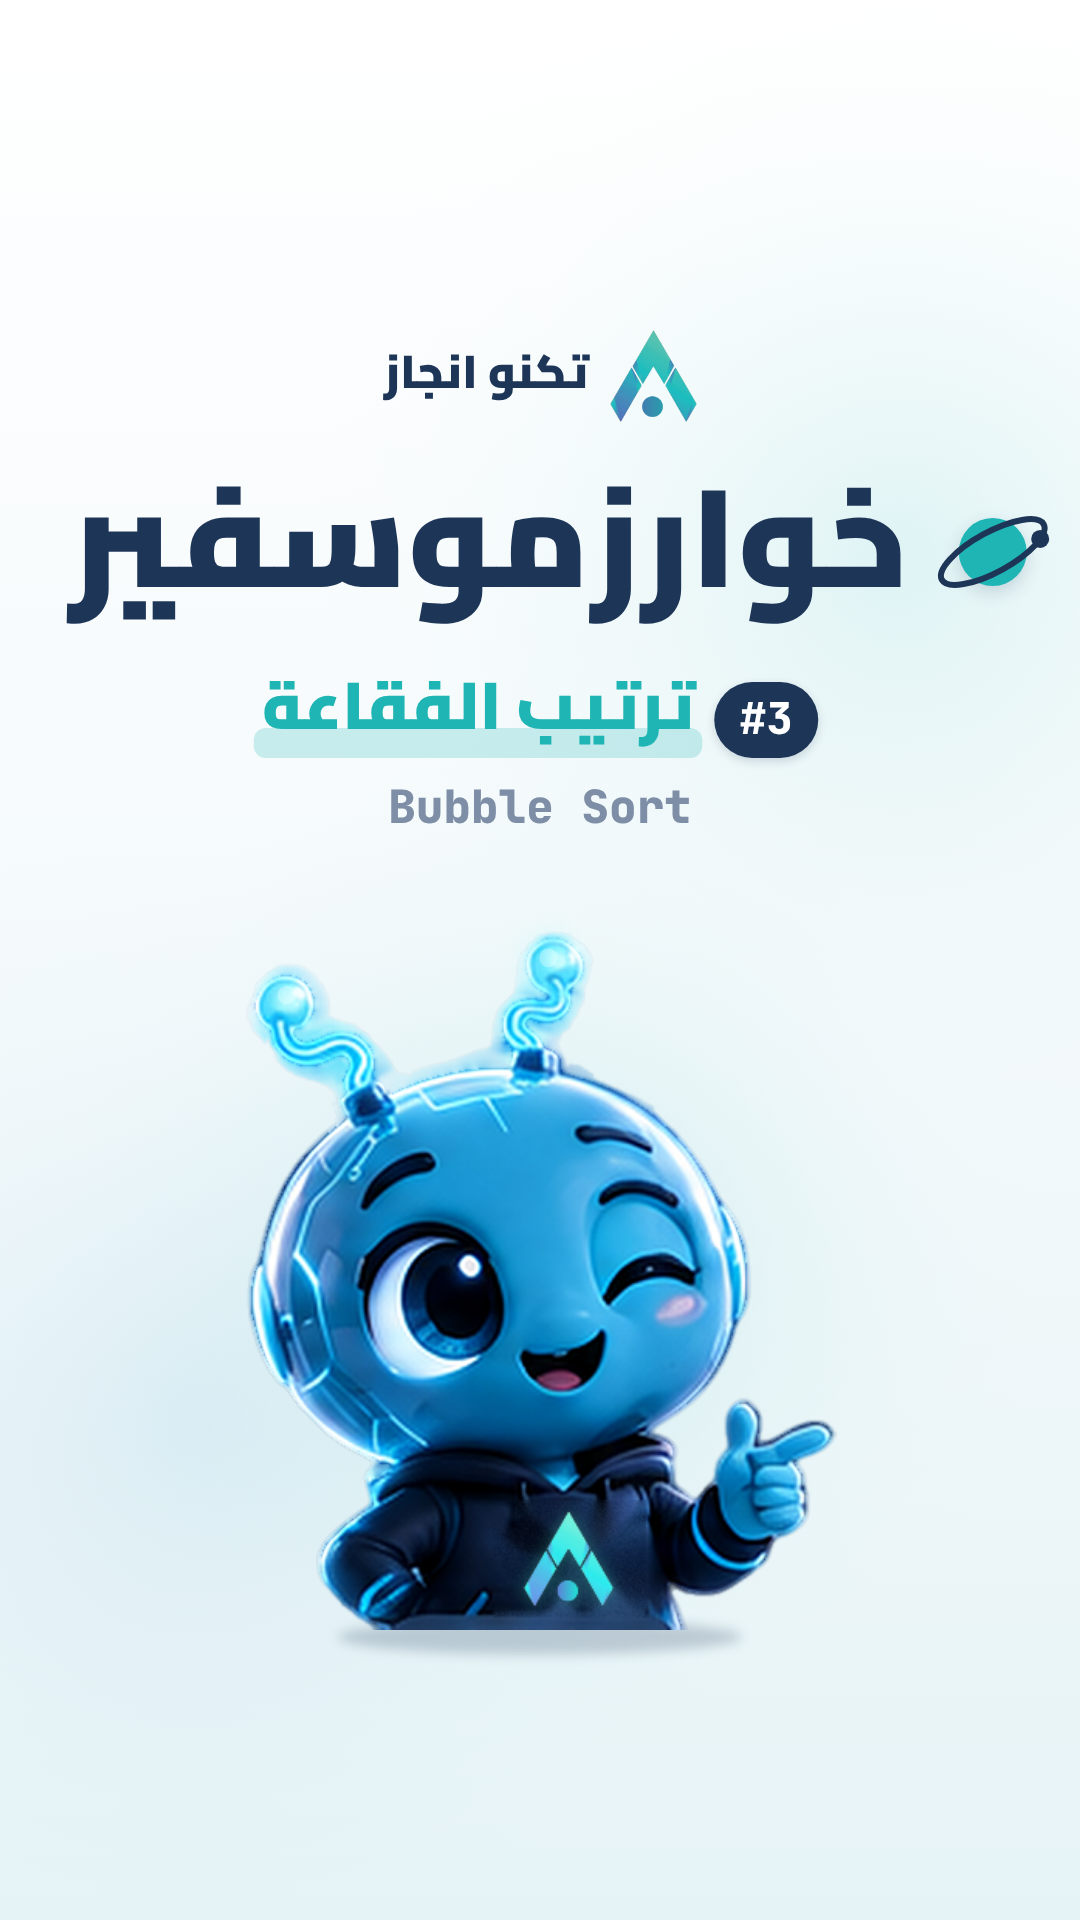
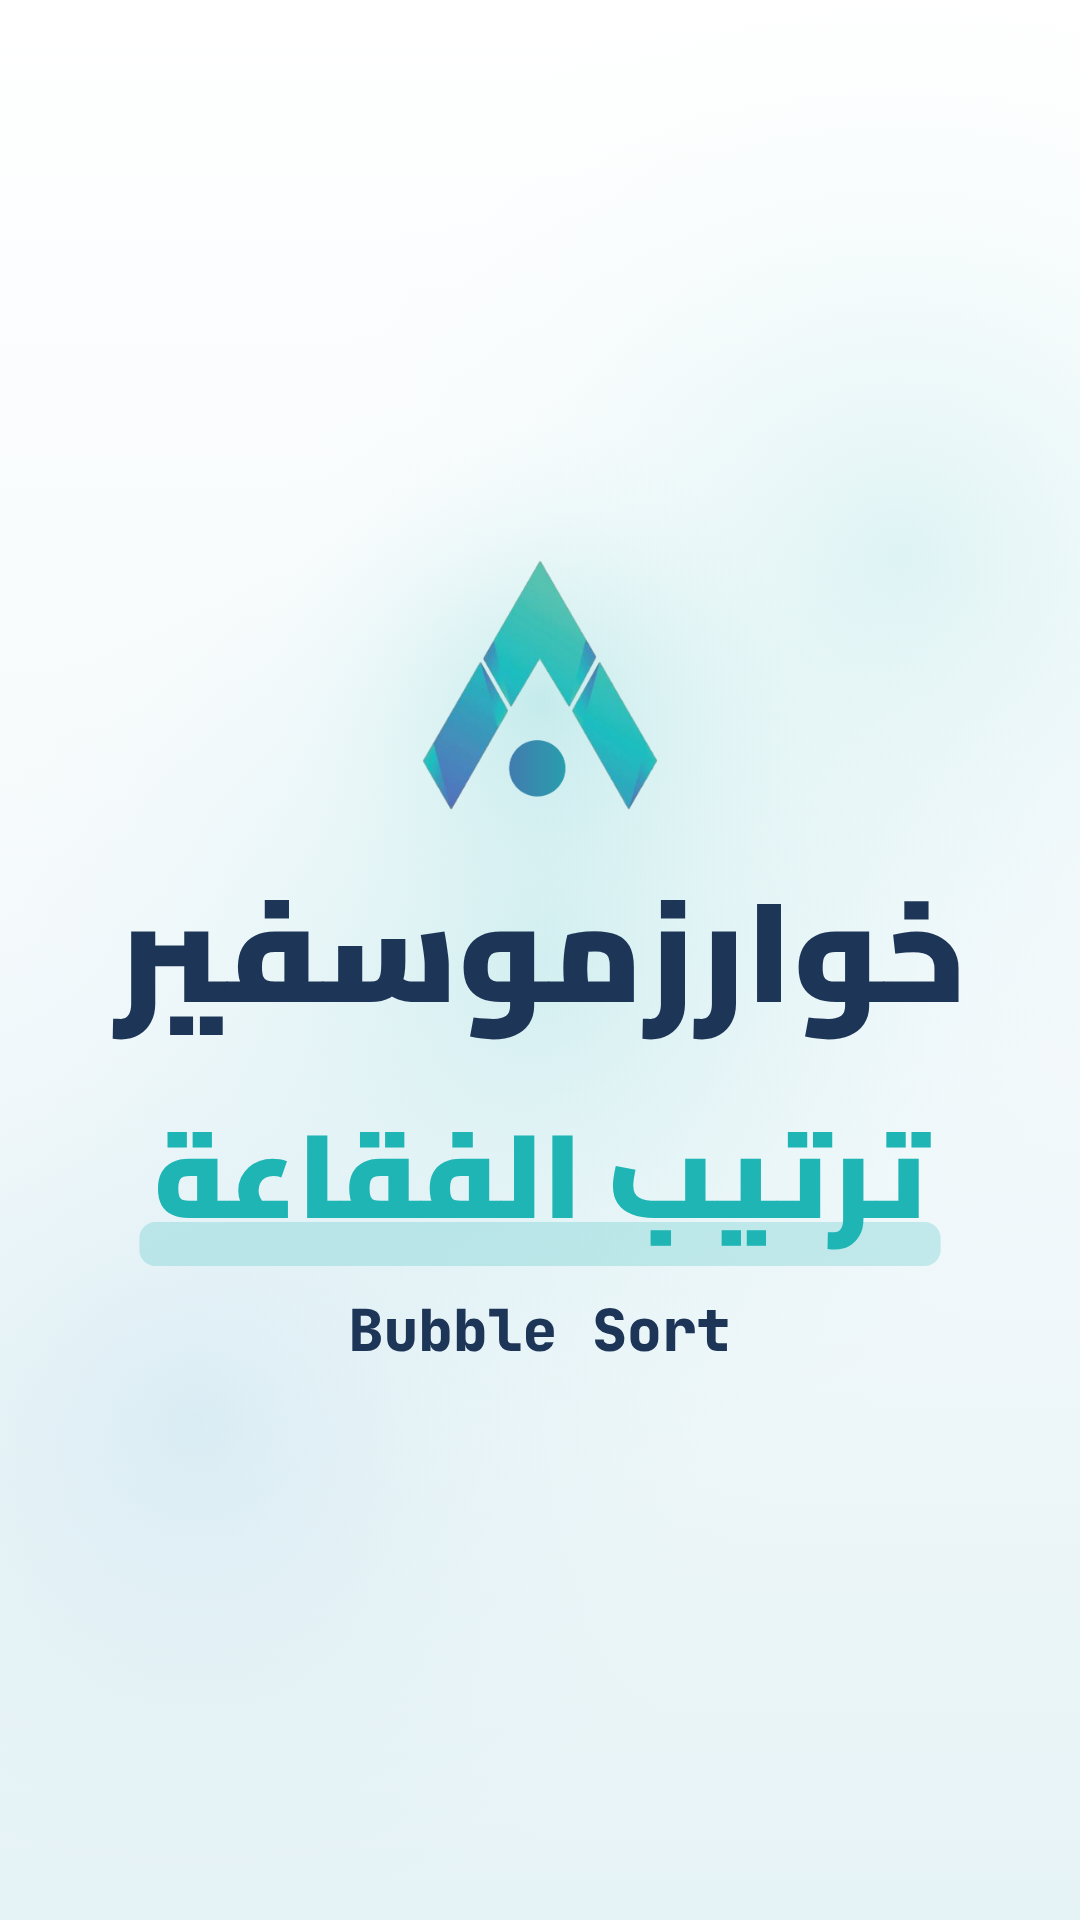
Covers: only the Techno Enjaz mark, the series name and the algorithm name
Claude-Session: https://claude.ai/code/session_01LrFppYxt5WHwVqvm5wNFjR

Changed region(s): [[0.0611, 0.25, 0.9778, 0.875], [0.3361, 0.1562, 0.6417, 0.2188]]

diff --git a/binary-search-reel/js/cover.js b/binary-search-reel/js/cover.js
@@ -5,22 +5,12 @@ SCENES.order = [];
 const COVER = window.COVER || { ep: 1, title: "البحث الخطي", en: "Linear Search", pose: "angry", poseH: 760 };
 let LOGO = null;
 window.drawCover = async () => {
+  // three things only: the Techno Enjaz mark, the series name, the algorithm's name — centred in the 4:5 grid crop
   if (!LOGO) LOGO = await new Promise((res) => { const im = new Image(); im.onload = () => res(im); im.src = "assets/te-logo.png"; });
-  const t = 1.6; NOW = t; ctx.setTransform(1, 0, 0, 1, 0, 0); background(t, { focus: [540, 1260, 540, 1] });
-  // 1 · Techno Enjaz: the mark + the name, top centre
-  const lh = 92, lw = lh * LOGO.width / LOGO.height; ctx.save(); ctx.font = font(46, 900); const nw = ctx.measureText("تكنو انجاز").width; ctx.restore();
-  const gw = lw + 22 + nw, gx = 540 - gw / 2; A(1); ctx.drawImage(LOGO, gx + nw + 22, 330, lw, lh); T("تكنو انجاز", gx + nw / 2, 330 + lh / 2 + 3, { size: 46, color: C.navy });
-  // 2 · the series name, big, with its orbit mark
-  ctx.save(); ctx.font = font(138, 900); const sw = ctx.measureText(SERIES).width; ctx.restore();
-  const sx0 = 540 - 52; // the globe sits on the right of the word (RTL start)
-  T(SERIES, sx0, 560, { size: 138, color: C.navy });
-  const gxx = sx0 + sw / 2 + 84, gy = 552; circle(gxx, gy, 34, C.teal, 1, 18); A(1); ctx.save(); ctx.translate(gxx, gy); ctx.rotate(-0.5); ctx.beginPath(); ctx.ellipse(0, 0, 58, 20, 0, 0, 6.2832); ctx.strokeStyle = C.navy; ctx.lineWidth = 6; ctx.stroke(); ctx.restore();
-  circle(gxx + Math.cos(0.6) * 58 * Math.cos(-0.5) - Math.sin(0.6) * 20 * Math.sin(-0.5), gy + Math.cos(0.6) * 58 * Math.sin(-0.5) + Math.sin(0.6) * 20 * Math.cos(-0.5), 9, C.navy, 1);
-  // 3 · this episode: number chip + topic (so each cover is still findable in the grid)
-  ctx.save(); ctx.font = font(66, 900); const tw = ctx.measureText(COVER.title).width; ctx.restore();
-  const cw = 104 + 20 + tw, cx0 = 540 - cw / 2; fillRR(cx0 + tw + 20, 682, 104, 76, 38, C.navy, 1, 10); T("#" + COVER.ep, cx0 + tw + 20 + 52, 722, { size: 44, fam: "mono", color: "#ffffff" });
-  fillRR(cx0 - 8, 728, tw + 16, 30, 12, hexA(C.teal, 0.22)); T(COVER.title, cx0 + tw / 2, 716, { size: 66, color: C.teal });
-  T(COVER.en, 540, 810, { size: 46, color: C.mut, fam: "mono" });
-  // 4 · خوارزمو
-  KR(COVER.pose, 540, 1630, COVER.poseH, { bob: 0 });
+  const t = 1.6; NOW = t; ctx.setTransform(1, 0, 0, 1, 0, 0); background(t, { focus: [540, 960, 600, 1] });
+  const lh = 250, lw = lh * LOGO.width / LOGO.height; halo(540, 700, 300, "rgba(31,181,181,0.18)", 1); A(1); ctx.drawImage(LOGO, 540 - lw / 2, 560, lw, lh);
+  T(SERIES, 540, 975, { size: 140, color: C.navy });
+  ctx.save(); ctx.font = font(118, 900); const tw = ctx.measureText(COVER.title).width; ctx.restore();
+  fillRR(540 - tw / 2 - 14, 1222, tw + 28, 44, 16, hexA(C.teal, 0.22)); T(COVER.title, 540, 1195, { size: 118, color: C.teal });
+  T(COVER.en, 540, 1335, { size: 58, color: C.navy, fam: "mono" });
 };

diff --git a/bubble-sort-reel/js/cover.js b/bubble-sort-reel/js/cover.js
@@ -5,22 +5,12 @@ SCENES.order = [];
 const COVER = window.COVER || { ep: 1, title: "البحث الخطي", en: "Linear Search", pose: "angry", poseH: 760 };
 let LOGO = null;
 window.drawCover = async () => {
+  // three things only: the Techno Enjaz mark, the series name, the algorithm's name — centred in the 4:5 grid crop
   if (!LOGO) LOGO = await new Promise((res) => { const im = new Image(); im.onload = () => res(im); im.src = "assets/te-logo.png"; });
-  const t = 1.6; NOW = t; ctx.setTransform(1, 0, 0, 1, 0, 0); background(t, { focus: [540, 1260, 540, 1] });
-  // 1 · Techno Enjaz: the mark + the name, top centre
-  const lh = 92, lw = lh * LOGO.width / LOGO.height; ctx.save(); ctx.font = font(46, 900); const nw = ctx.measureText("تكنو انجاز").width; ctx.restore();
-  const gw = lw + 22 + nw, gx = 540 - gw / 2; A(1); ctx.drawImage(LOGO, gx + nw + 22, 330, lw, lh); T("تكنو انجاز", gx + nw / 2, 330 + lh / 2 + 3, { size: 46, color: C.navy });
-  // 2 · the series name, big, with its orbit mark
-  ctx.save(); ctx.font = font(138, 900); const sw = ctx.measureText(SERIES).width; ctx.restore();
-  const sx0 = 540 - 52; // the globe sits on the right of the word (RTL start)
-  T(SERIES, sx0, 560, { size: 138, color: C.navy });
-  const gxx = sx0 + sw / 2 + 84, gy = 552; circle(gxx, gy, 34, C.teal, 1, 18); A(1); ctx.save(); ctx.translate(gxx, gy); ctx.rotate(-0.5); ctx.beginPath(); ctx.ellipse(0, 0, 58, 20, 0, 0, 6.2832); ctx.strokeStyle = C.navy; ctx.lineWidth = 6; ctx.stroke(); ctx.restore();
-  circle(gxx + Math.cos(0.6) * 58 * Math.cos(-0.5) - Math.sin(0.6) * 20 * Math.sin(-0.5), gy + Math.cos(0.6) * 58 * Math.sin(-0.5) + Math.sin(0.6) * 20 * Math.cos(-0.5), 9, C.navy, 1);
-  // 3 · this episode: number chip + topic (so each cover is still findable in the grid)
-  ctx.save(); ctx.font = font(66, 900); const tw = ctx.measureText(COVER.title).width; ctx.restore();
-  const cw = 104 + 20 + tw, cx0 = 540 - cw / 2; fillRR(cx0 + tw + 20, 682, 104, 76, 38, C.navy, 1, 10); T("#" + COVER.ep, cx0 + tw + 20 + 52, 722, { size: 44, fam: "mono", color: "#ffffff" });
-  fillRR(cx0 - 8, 728, tw + 16, 30, 12, hexA(C.teal, 0.22)); T(COVER.title, cx0 + tw / 2, 716, { size: 66, color: C.teal });
-  T(COVER.en, 540, 810, { size: 46, color: C.mut, fam: "mono" });
-  // 4 · خوارزمو
-  KR(COVER.pose, 540, 1630, COVER.poseH, { bob: 0 });
+  const t = 1.6; NOW = t; ctx.setTransform(1, 0, 0, 1, 0, 0); background(t, { focus: [540, 960, 600, 1] });
+  const lh = 250, lw = lh * LOGO.width / LOGO.height; halo(540, 700, 300, "rgba(31,181,181,0.18)", 1); A(1); ctx.drawImage(LOGO, 540 - lw / 2, 560, lw, lh);
+  T(SERIES, 540, 975, { size: 140, color: C.navy });
+  ctx.save(); ctx.font = font(118, 900); const tw = ctx.measureText(COVER.title).width; ctx.restore();
+  fillRR(540 - tw / 2 - 14, 1222, tw + 28, 44, 16, hexA(C.teal, 0.22)); T(COVER.title, 540, 1195, { size: 118, color: C.teal });
+  T(COVER.en, 540, 1335, { size: 58, color: C.navy, fam: "mono" });
 };

diff --git a/linear-search-reel/js/cover.js b/linear-search-reel/js/cover.js
@@ -5,22 +5,12 @@ SCENES.order = [];
 const COVER = window.COVER || { ep: 1, title: "البحث الخطي", en: "Linear Search", pose: "angry", poseH: 760 };
 let LOGO = null;
 window.drawCover = async () => {
+  // three things only: the Techno Enjaz mark, the series name, the algorithm's name — centred in the 4:5 grid crop
   if (!LOGO) LOGO = await new Promise((res) => { const im = new Image(); im.onload = () => res(im); im.src = "assets/te-logo.png"; });
-  const t = 1.6; NOW = t; ctx.setTransform(1, 0, 0, 1, 0, 0); background(t, { focus: [540, 1260, 540, 1] });
-  // 1 · Techno Enjaz: the mark + the name, top centre
-  const lh = 92, lw = lh * LOGO.width / LOGO.height; ctx.save(); ctx.font = font(46, 900); const nw = ctx.measureText("تكنو انجاز").width; ctx.restore();
-  const gw = lw + 22 + nw, gx = 540 - gw / 2; A(1); ctx.drawImage(LOGO, gx + nw + 22, 330, lw, lh); T("تكنو انجاز", gx + nw / 2, 330 + lh / 2 + 3, { size: 46, color: C.navy });
-  // 2 · the series name, big, with its orbit mark
-  ctx.save(); ctx.font = font(138, 900); const sw = ctx.measureText(SERIES).width; ctx.restore();
-  const sx0 = 540 - 52; // the globe sits on the right of the word (RTL start)
-  T(SERIES, sx0, 560, { size: 138, color: C.navy });
-  const gxx = sx0 + sw / 2 + 84, gy = 552; circle(gxx, gy, 34, C.teal, 1, 18); A(1); ctx.save(); ctx.translate(gxx, gy); ctx.rotate(-0.5); ctx.beginPath(); ctx.ellipse(0, 0, 58, 20, 0, 0, 6.2832); ctx.strokeStyle = C.navy; ctx.lineWidth = 6; ctx.stroke(); ctx.restore();
-  circle(gxx + Math.cos(0.6) * 58 * Math.cos(-0.5) - Math.sin(0.6) * 20 * Math.sin(-0.5), gy + Math.cos(0.6) * 58 * Math.sin(-0.5) + Math.sin(0.6) * 20 * Math.cos(-0.5), 9, C.navy, 1);
-  // 3 · this episode: number chip + topic (so each cover is still findable in the grid)
-  ctx.save(); ctx.font = font(66, 900); const tw = ctx.measureText(COVER.title).width; ctx.restore();
-  const cw = 104 + 20 + tw, cx0 = 540 - cw / 2; fillRR(cx0 + tw + 20, 682, 104, 76, 38, C.navy, 1, 10); T("#" + COVER.ep, cx0 + tw + 20 + 52, 722, { size: 44, fam: "mono", color: "#ffffff" });
-  fillRR(cx0 - 8, 728, tw + 16, 30, 12, hexA(C.teal, 0.22)); T(COVER.title, cx0 + tw / 2, 716, { size: 66, color: C.teal });
-  T(COVER.en, 540, 810, { size: 46, color: C.mut, fam: "mono" });
-  // 4 · خوارزمو
-  KR(COVER.pose, 540, 1630, COVER.poseH, { bob: 0 });
+  const t = 1.6; NOW = t; ctx.setTransform(1, 0, 0, 1, 0, 0); background(t, { focus: [540, 960, 600, 1] });
+  const lh = 250, lw = lh * LOGO.width / LOGO.height; halo(540, 700, 300, "rgba(31,181,181,0.18)", 1); A(1); ctx.drawImage(LOGO, 540 - lw / 2, 560, lw, lh);
+  T(SERIES, 540, 975, { size: 140, color: C.navy });
+  ctx.save(); ctx.font = font(118, 900); const tw = ctx.measureText(COVER.title).width; ctx.restore();
+  fillRR(540 - tw / 2 - 14, 1222, tw + 28, 44, 16, hexA(C.teal, 0.22)); T(COVER.title, 540, 1195, { size: 118, color: C.teal });
+  T(COVER.en, 540, 1335, { size: 58, color: C.navy, fam: "mono" });
 };

diff --git a/merge-sort-reel/js/cover.js b/merge-sort-reel/js/cover.js
@@ -5,22 +5,12 @@ SCENES.order = [];
 const COVER = window.COVER || { ep: 1, title: "البحث الخطي", en: "Linear Search", pose: "angry", poseH: 760 };
 let LOGO = null;
 window.drawCover = async () => {
+  // three things only: the Techno Enjaz mark, the series name, the algorithm's name — centred in the 4:5 grid crop
   if (!LOGO) LOGO = await new Promise((res) => { const im = new Image(); im.onload = () => res(im); im.src = "assets/te-logo.png"; });
-  const t = 1.6; NOW = t; ctx.setTransform(1, 0, 0, 1, 0, 0); background(t, { focus: [540, 1260, 540, 1] });
-  // 1 · Techno Enjaz: the mark + the name, top centre
-  const lh = 92, lw = lh * LOGO.width / LOGO.height; ctx.save(); ctx.font = font(46, 900); const nw = ctx.measureText("تكنو انجاز").width; ctx.restore();
-  const gw = lw + 22 + nw, gx = 540 - gw / 2; A(1); ctx.drawImage(LOGO, gx + nw + 22, 330, lw, lh); T("تكنو انجاز", gx + nw / 2, 330 + lh / 2 + 3, { size: 46, color: C.navy });
-  // 2 · the series name, big, with its orbit mark
-  ctx.save(); ctx.font = font(138, 900); const sw = ctx.measureText(SERIES).width; ctx.restore();
-  const sx0 = 540 - 52; // the globe sits on the right of the word (RTL start)
-  T(SERIES, sx0, 560, { size: 138, color: C.navy });
-  const gxx = sx0 + sw / 2 + 84, gy = 552; circle(gxx, gy, 34, C.teal, 1, 18); A(1); ctx.save(); ctx.translate(gxx, gy); ctx.rotate(-0.5); ctx.beginPath(); ctx.ellipse(0, 0, 58, 20, 0, 0, 6.2832); ctx.strokeStyle = C.navy; ctx.lineWidth = 6; ctx.stroke(); ctx.restore();
-  circle(gxx + Math.cos(0.6) * 58 * Math.cos(-0.5) - Math.sin(0.6) * 20 * Math.sin(-0.5), gy + Math.cos(0.6) * 58 * Math.sin(-0.5) + Math.sin(0.6) * 20 * Math.cos(-0.5), 9, C.navy, 1);
-  // 3 · this episode: number chip + topic (so each cover is still findable in the grid)
-  ctx.save(); ctx.font = font(66, 900); const tw = ctx.measureText(COVER.title).width; ctx.restore();
-  const cw = 104 + 20 + tw, cx0 = 540 - cw / 2; fillRR(cx0 + tw + 20, 682, 104, 76, 38, C.navy, 1, 10); T("#" + COVER.ep, cx0 + tw + 20 + 52, 722, { size: 44, fam: "mono", color: "#ffffff" });
-  fillRR(cx0 - 8, 728, tw + 16, 30, 12, hexA(C.teal, 0.22)); T(COVER.title, cx0 + tw / 2, 716, { size: 66, color: C.teal });
-  T(COVER.en, 540, 810, { size: 46, color: C.mut, fam: "mono" });
-  // 4 · خوارزمو
-  KR(COVER.pose, 540, 1630, COVER.poseH, { bob: 0 });
+  const t = 1.6; NOW = t; ctx.setTransform(1, 0, 0, 1, 0, 0); background(t, { focus: [540, 960, 600, 1] });
+  const lh = 250, lw = lh * LOGO.width / LOGO.height; halo(540, 700, 300, "rgba(31,181,181,0.18)", 1); A(1); ctx.drawImage(LOGO, 540 - lw / 2, 560, lw, lh);
+  T(SERIES, 540, 975, { size: 140, color: C.navy });
+  ctx.save(); ctx.font = font(118, 900); const tw = ctx.measureText(COVER.title).width; ctx.restore();
+  fillRR(540 - tw / 2 - 14, 1222, tw + 28, 44, 16, hexA(C.teal, 0.22)); T(COVER.title, 540, 1195, { size: 118, color: C.teal });
+  T(COVER.en, 540, 1335, { size: 58, color: C.navy, fam: "mono" });
 };
